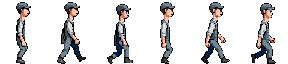
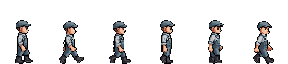
Playtest keenam: langit bertangga + aspal jalan, siklus jalan regu v3
- LatarView: bawah horizon bukan lagi langit polos - aspal gelap dengan
  marka putus-putus terkunci dunia; langit jadi tiga pita bertangga yang
  makin terang ke horizon (gaya acuan Kingdom, aturan tanpa-gradien tetap)
- regu_jalan diganti animasi v3: template walking me-retarget skeleton dan
  membuat leher melar; v3 menjaga proporsi karakter (docs/12 s6.2 & s7)

diff --git a/docs/12-kitab-gaya-visual.md b/docs/12-kitab-gaya-visual.md
@@ -190,6 +190,15 @@ Dicatat per gelombang: tanggal, jumlah generasi terpakai, seed ubin terpilih.
 | 12 Agu | 6 — banner layar judul | 2 | 29 / 2000 (angka resmi get_balance) |
 | 12 Agu | 5 — karakter Regu Perawat + 6 animasi (26 frame) | 10 | 39 / 2000 |
 | 12 Agu | polish playtest kelima (pintu transparan, tetangga, 4 tanah, bunga) | 7 | 46 / 2000 |
+| 12 Agu | playtest keenam: jalan v3 (leher template melar) | 2 | 48 / 2000 |
+
+Pelajaran playtest keenam: animasi TEMPLATE me-retarget skeleton generik ke
+karakter — di karakter gempal berkepala besar, lehernya bisa melar
+menyeramkan. Untuk karakter kanon ini, animasi gerak dasar pun lebih aman
+lewat v3 (`action_description` + "normal head and neck proportions").
+walking-6-frames di §6.2 DIGANTI: regu_jalan kini v3 "walking calmly to
+the side with relaxed short steps, arms swinging naturally, normal head
+and neck proportions, steady upright posture".
 
 Pelajaran pass polish: (1) ubin varian papan catur harus PUNYA NILAI TERANG
 SAMA — dua generasi berbeda hampir selalu beda nilai dan malah membentuk
